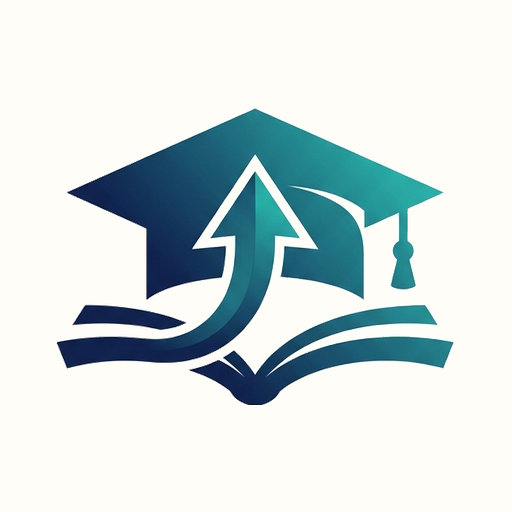
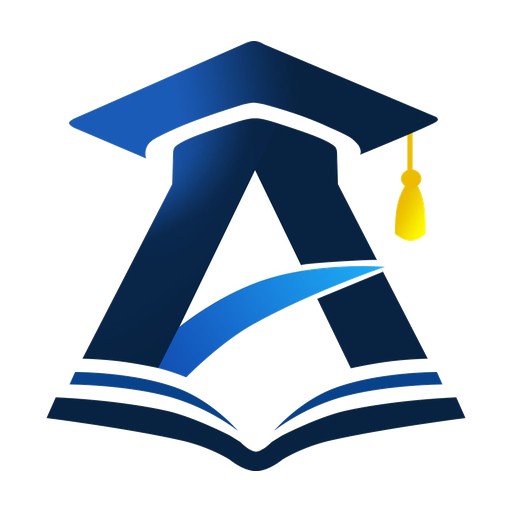
CHANGED

diff --git a/tests/logo-seo.js b/tests/logo-seo.js
@@ -1,0 +1,72 @@
+/* ==========================================================================
+   ACADEX — YENİ LOGO + GOOGLE'DA LOGO TESTLERİ (tests/logo-seo.js), 07.11.2026
+
+   NEDEN VAR: logo değişti (kep + "A" + açık kitap). Eski dosya adları korunarak yenilendi
+   (sayfa kodu değişmeden her yerde yeni logo). Google arama sonucunda logonun görünmesi için:
+     - kökte /favicon.ico ve 48'in katı boyutlarda PNG ikonlar (Google favicon kuralı)
+     - her sayfada aynı ikon etiketleri
+     - ana sayfada Organization (logo) + WebSite (site adı) yapılandırılmış verisi
+     - mutlak adresli paylaşım görseli, canonical, robots.txt ve sitemap.xml
+   Çalıştırma:  node tests/logo-seo.js
+   ========================================================================== */
+'use strict';
+const assert = require('node:assert/strict');
+const fs = require('node:fs');
+const path = require('node:path');
+const { makeRunner } = require('./_ts-extract.js');
+const ROOT = path.join(__dirname, '..');
+const read = (p) => fs.readFileSync(path.join(ROOT, p), 'utf8').replace(/\r\n/g, '\n');
+const { test, summary } = makeRunner();
+const U = 'https://www.acadex.com.tr';
+
+/* PNG başlığından boyut (bağımlılıksız) */
+const pngBoyut = (p) => { const b = fs.readFileSync(path.join(ROOT, p)); assert.equal(b.toString('ascii', 1, 4), 'PNG', p + ' PNG değil'); return [b.readUInt32BE(16), b.readUInt32BE(20)]; };
+
+test('ikon dosyaları var ve Google kuralına uygun (kare, 48 katı)', () => {
+  for (const n of [48, 96, 192]) assert.deepEqual(pngBoyut('assets/icons/favicon-' + n + '.png'), [n, n]);
+  const ico = fs.readFileSync(path.join(ROOT, 'favicon.ico'));
+  assert.equal(ico.readUInt16LE(0), 0); assert.equal(ico.readUInt16LE(2), 1, 'ICO türü');
+  const sayi = ico.readUInt16LE(4); assert.ok(sayi >= 3, 'favicon.ico 16/32/48 içerir');
+  const boy = []; for (let i = 0; i < sayi; i++) boy.push(ico[6 + i * 16] || 256);
+  assert.ok(boy.includes(48), 'ICO içinde 48 px');
+  for (const [p, n] of [['assets/logo.png', 1024], ['assets/logo-icon-only.png', 512], ['assets/landing/acadex-logo.png', 256], ['assets/pwa/icon-192.png', 192], ['assets/pwa/icon-512.png', 512], ['assets/pwa/maskable-512.png', 512], ['assets/pwa/apple-touch-icon.png', 180], ['assets/pwa/badge-96.png', 96]]) assert.deepEqual(pngBoyut(p), [n, n], p);
+  assert.deepEqual(pngBoyut('assets/og-acadex.png'), [1200, 630]);
+  for (const f of ['assets/landing/acadex-logo.webp', 'assets/landing/acadex-logo.avif']) assert.ok(fs.statSync(path.join(ROOT, f)).size > 1000, f);
+});
+
+test('her sayfada aynı ikon etiketleri, eski tek PNG ikon kalmadı', () => {
+  const sayfalar = fs.readdirSync(ROOT).filter((f) => f.endsWith('.html')).concat(fs.readdirSync(path.join(ROOT, 'ingilizce')).filter((f) => f.endsWith('.html')).map((f) => 'ingilizce/' + f));
+  let n = 0;
+  for (const f of sayfalar) {
+    const h = read(f); if (!/rel="icon"/.test(h)) continue; n++;
+    assert.match(h, /<link rel="icon" href="\/favicon\.ico" sizes="any">/, f);
+    assert.match(h, /<link rel="icon" type="image\/png" sizes="48x48" href="\/assets\/icons\/favicon-48\.png">/, f);
+    assert.match(h, /<link rel="icon" type="image\/png" sizes="192x192" href="\/assets\/icons\/favicon-192\.png">/, f);
+    assert.match(h, /rel="apple-touch-icon"/, f);
+    assert.doesNotMatch(h, /<link rel="icon" type="image\/png" href=/, f + ': eski ikon etiketi');
+  }
+  assert.ok(n >= 18, 'ikonlu sayfa sayısı ' + n);
+});
+
+test('ana sayfa: Google site adı + logo yapılandırılmış verisi ve paylaşım görseli', () => {
+  const h = read('index.html');
+  const j = JSON.parse(h.match(/<script type="application\/ld\+json">([\s\S]*?)<\/script>/)[1]);
+  const org = j['@graph'].find((x) => x['@type'] === 'Organization'), site = j['@graph'].find((x) => x['@type'] === 'WebSite');
+  assert.equal(org.name, 'Acadex'); assert.equal(org.url, U + '/'); assert.equal(org.logo.url, U + '/assets/logo.png'); assert.ok(org.logo.width >= 112);
+  assert.equal(site.name, 'Acadex'); assert.equal(site.url, U + '/');
+  assert.ok(!JSON.stringify(j).includes('@gmail'), 'kişisel e-posta yapılandırılmış veride yok');
+  assert.match(h, new RegExp('<meta property="og:image" content="' + U.replace(/\./g, '\\.') + '/assets/og-acadex\\.png">'));
+  assert.match(h, /<link rel="canonical" href="https:\/\/www\.acadex\.com\.tr\/">/);
+  assert.match(h, /<meta property="og:site_name" content="Acadex">/);
+});
+
+test('robots.txt ve sitemap.xml: ana sayfa taranabilir, yönetim sayfaları kapalı', () => {
+  const r = read('robots.txt'), s = read('sitemap.xml');
+  assert.match(r, /User-agent: \*\nAllow: \//); assert.match(r, /Disallow: \/admin/); assert.match(r, /Sitemap: https:\/\/www\.acadex\.com\.tr\/sitemap\.xml/);
+  assert.doesNotMatch(r, /Disallow: \/assets|Disallow: \/favicon/, 'ikonlar Googlebot\'a açık');
+  assert.match(s, /<loc>https:\/\/www\.acadex\.com\.tr\/<\/loc>/);
+  assert.doesNotMatch(s, /admin|panel|dashboard/);
+  assert.ok(read('manifest.webmanifest').includes('/assets/pwa/maskable-512.png'));
+});
+
+summary();

diff --git a/index.html b/index.html
@@ -5,14 +5,35 @@
 <meta name="viewport" content="width=device-width, initial-scale=1">
 <title>Acadex — Zekice çalış, sınırları aş.</title>
 <meta name="description" content="Ders materyallerini özetlere, çalışma kartlarına ve deneme sınavlarına dönüştüren öğrenci portalı.">
-<link rel="icon" type="image/png" href="assets/logo.png">
+<link rel="icon" href="/favicon.ico" sizes="any">
+<link rel="icon" type="image/png" sizes="48x48" href="/assets/icons/favicon-48.png">
+<link rel="icon" type="image/png" sizes="96x96" href="/assets/icons/favicon-96.png">
+<link rel="icon" type="image/png" sizes="192x192" href="/assets/icons/favicon-192.png">
 <link rel="manifest" href="/manifest.webmanifest">
 <link rel="apple-touch-icon" href="/assets/pwa/apple-touch-icon.png">
 <meta name="apple-mobile-web-app-capable" content="yes">
 <meta name="apple-mobile-web-app-title" content="Acadex">
 <meta property="og:title" content="Acadex — Zekice çalış, sınırları aş.">
 <meta property="og:description" content="Ders materyallerini özetlere, çalışma kartlarına ve deneme sınavlarına dönüştüren öğrenci portalı.">
-<meta property="og:image" content="assets/logo.png">
+<meta property="og:image" content="https://www.acadex.com.tr/assets/og-acadex.png">
+<meta property="og:image:width" content="1200">
+<meta property="og:image:height" content="630">
+<meta property="og:image:alt" content="Acadex logosu">
+<meta property="og:url" content="https://www.acadex.com.tr/">
+<meta property="og:site_name" content="Acadex">
+<meta property="og:locale" content="tr_TR">
+<meta name="twitter:card" content="summary_large_image">
+<meta name="twitter:image" content="https://www.acadex.com.tr/assets/og-acadex.png">
+<link rel="canonical" href="https://www.acadex.com.tr/">
+<meta name="application-name" content="Acadex">
+<meta name="theme-color" content="#0D1838">
+<!-- 07.11.2026 · Google: site adı ve logo (yapılandırılmış veri). Logo 112 px üstü, kare, taranabilir. -->
+<script type="application/ld+json">
+{"@context":"https://schema.org","@graph":[
+ {"@type":"Organization","@id":"https://www.acadex.com.tr/#org","name":"Acadex","url":"https://www.acadex.com.tr/","logo":{"@type":"ImageObject","url":"https://www.acadex.com.tr/assets/logo.png","width":1024,"height":1024}},
+ {"@type":"WebSite","@id":"https://www.acadex.com.tr/#site","name":"Acadex","alternateName":["acadex.com.tr","Acadex Akademik Öğrenme Platformu"],"url":"https://www.acadex.com.tr/","inLanguage":"tr-TR","publisher":{"@id":"https://www.acadex.com.tr/#org"}}
+]}
+</script>
 <meta property="og:type" content="website">
 <style>
 /* self-hosted fonts (no third-party requests) */

diff --git a/login.html b/login.html
@@ -6,7 +6,11 @@
 <title>Giriş yap · Acadex</title>
 <meta name="description" content="Acadex hesabına giriş yap: notların, kartların ve denemelerin seni bekliyor.">
 <meta name="theme-color" content="#0D1838">
-<link rel="icon" type="image/png" href="assets/logo-icon-only.png">
+<link rel="icon" href="/favicon.ico" sizes="any">
+<link rel="icon" type="image/png" sizes="48x48" href="/assets/icons/favicon-48.png">
+<link rel="icon" type="image/png" sizes="96x96" href="/assets/icons/favicon-96.png">
+<link rel="icon" type="image/png" sizes="192x192" href="/assets/icons/favicon-192.png">
+<link rel="apple-touch-icon" href="/assets/pwa/apple-touch-icon.png">
 <link rel="preload" href="assets/landing/fonts/caveat-latin.woff2" as="font" type="font/woff2" crossorigin>
 <style>
 @font-face{font-family:'Bricolage Grotesque';font-style:normal;font-display:swap;font-weight:200 800;src:url(assets/landing/fonts/bricolage-latin-ext.woff2) format('woff2-variations');unicode-range:U+0100-02BA,U+02BD-02C5,U+02C7-02CC,U+02CE-02D7,U+02DD-02FF,U+0304,U+0308,U+0329,U+1D00-1DBF,U+1E00-1E9F,U+1EF2-1EFF,U+2020,U+20A0-20AB,U+20AD-20C0,U+2113,U+2C60-2C7F,U+A720-A7FF}

diff --git a/register.html b/register.html
@@ -6,7 +6,11 @@
 <title>Kayıt ol · Acadex</title>
 <meta name="description" content="Acadex öğrenci hesabını oluştur: pilot program açık, kayıt ücretsiz.">
 <meta name="theme-color" content="#0D1838">
-<link rel="icon" type="image/png" href="assets/logo-icon-only.png">
+<link rel="icon" href="/favicon.ico" sizes="any">
+<link rel="icon" type="image/png" sizes="48x48" href="/assets/icons/favicon-48.png">
+<link rel="icon" type="image/png" sizes="96x96" href="/assets/icons/favicon-96.png">
+<link rel="icon" type="image/png" sizes="192x192" href="/assets/icons/favicon-192.png">
+<link rel="apple-touch-icon" href="/assets/pwa/apple-touch-icon.png">
 <link rel="preload" href="assets/landing/fonts/caveat-latin.woff2" as="font" type="font/woff2" crossorigin>
 <style>
 @font-face{font-family:'Bricolage Grotesque';font-style:normal;font-display:swap;font-weight:200 800;src:url(assets/landing/fonts/bricolage-latin-ext.woff2) format('woff2-variations');unicode-range:U+0100-02BA,U+02BD-02C5,U+02C7-02CC,U+02CE-02D7,U+02DD-02FF,U+0304,U+0308,U+0329,U+1D00-1DBF,U+1E00-1E9F,U+1EF2-1EFF,U+2020,U+20A0-20AB,U+20AD-20C0,U+2113,U+2C60-2C7F,U+A720-A7FF}

diff --git a/reset-password.html b/reset-password.html
@@ -6,7 +6,11 @@
 <title>Şifre yenile · Acadex</title>
 <meta name="description" content="Acadex şifreni güvenle yenile.">
 <meta name="theme-color" content="#0D1838">
-<link rel="icon" type="image/png" href="assets/logo-icon-only.png">
+<link rel="icon" href="/favicon.ico" sizes="any">
+<link rel="icon" type="image/png" sizes="48x48" href="/assets/icons/favicon-48.png">
+<link rel="icon" type="image/png" sizes="96x96" href="/assets/icons/favicon-96.png">
+<link rel="icon" type="image/png" sizes="192x192" href="/assets/icons/favicon-192.png">
+<link rel="apple-touch-icon" href="/assets/pwa/apple-touch-icon.png">
 <link rel="preload" href="assets/landing/fonts/caveat-latin.woff2" as="font" type="font/woff2" crossorigin>
 <style>
 @font-face{font-family:'Bricolage Grotesque';font-style:normal;font-display:swap;font-weight:200 800;src:url(assets/landing/fonts/bricolage-latin-ext.woff2) format('woff2-variations');unicode-range:U+0100-02BA,U+02BD-02C5,U+02C7-02CC,U+02CE-02D7,U+02DD-02FF,U+0304,U+0308,U+0329,U+1D00-1DBF,U+1E00-1E9F,U+1EF2-1EFF,U+2020,U+20A0-20AB,U+20AD-20C0,U+2113,U+2C60-2C7F,U+A720-A7FF}

diff --git a/ingilizce/index.html b/ingilizce/index.html
@@ -7,7 +7,11 @@
 <script>/* kapı: son 30 dk içinde doğrulandıysa açık başla (assets/kapi.js yine denetler) */try{if(Date.now()-(+sessionStorage.getItem('acx.kapi')||0)<18e5)document.documentElement.classList.remove('kapi')}catch(e){}</script>
 <title>Acadex English</title>
 <meta name="description" content="Kahvaltıda kelime, otobüste dinleme, kütüphanede okuma, kafede konuşma, akşam bir paragraf. Üniversite öğrencisinin gününe dağılmış İngilizce.">
-<link rel="icon" type="image/png" href="../assets/landing/acadex-logo.png">
+<link rel="icon" href="/favicon.ico" sizes="any">
+<link rel="icon" type="image/png" sizes="48x48" href="/assets/icons/favicon-48.png">
+<link rel="icon" type="image/png" sizes="96x96" href="/assets/icons/favicon-96.png">
+<link rel="icon" type="image/png" sizes="192x192" href="/assets/icons/favicon-192.png">
+<link rel="apple-touch-icon" href="/assets/pwa/apple-touch-icon.png">
 <link rel="stylesheet" href="assets/ing.css">
 <style>
 body{--c:var(--mavi)}

diff --git a/ingilizce/reading.html b/ingilizce/reading.html
@@ -7,7 +7,11 @@
 <script>/* kapı: son 30 dk içinde doğrulandıysa açık başla (assets/kapi.js yine denetler) */try{if(Date.now()-(+sessionStorage.getItem('acx.kapi')||0)<18e5)document.documentElement.classList.remove('kapi')}catch(e){}</script>
 <title>Reading · Acadex English</title>
 <meta name="description" content="Akademik metni baştan sona çevirmeden okumak: göz gezdir, ana fikri işaretle, bilmediğin kelime kenarda Türkçesiyle beklesin.">
-<link rel="icon" type="image/png" href="../assets/landing/acadex-logo.png">
+<link rel="icon" href="/favicon.ico" sizes="any">
+<link rel="icon" type="image/png" sizes="48x48" href="/assets/icons/favicon-48.png">
+<link rel="icon" type="image/png" sizes="96x96" href="/assets/icons/favicon-96.png">
+<link rel="icon" type="image/png" sizes="192x192" href="/assets/icons/favicon-192.png">
+<link rel="apple-touch-icon" href="/assets/pwa/apple-touch-icon.png">
 <link rel="stylesheet" href="assets/ing.css">
 <style>
 body{--c:var(--reading)}

diff --git a/ingilizce/listening.html b/ingilizce/listening.html
@@ -7,7 +7,11 @@
 <script>/* kapı: son 30 dk içinde doğrulandıysa açık başla (assets/kapi.js yine denetler) */try{if(Date.now()-(+sessionStorage.getItem('acx.kapi')||0)<18e5)document.documentElement.classList.remove('kapi')}catch(e){}</script>
 <title>Listening · Acadex English</title>
 <meta name="description" content="Kampüse giden otobüste bir bölüm dinle. Takıldığın kelimeye dokun, anlamı çıksın; hız senin elinde.">
-<link rel="icon" type="image/png" href="../assets/landing/acadex-logo.png">
+<link rel="icon" href="/favicon.ico" sizes="any">
+<link rel="icon" type="image/png" sizes="48x48" href="/assets/icons/favicon-48.png">
+<link rel="icon" type="image/png" sizes="96x96" href="/assets/icons/favicon-96.png">
+<link rel="icon" type="image/png" sizes="192x192" href="/assets/icons/favicon-192.png">
+<link rel="apple-touch-icon" href="/assets/pwa/apple-touch-icon.png">
 <link rel="stylesheet" href="assets/ing.css">
 <style>
 body{--c:var(--listening)}

diff --git a/ingilizce/writing.html b/ingilizce/writing.html
@@ -7,7 +7,11 @@
 <script>/* kapı: son 30 dk içinde doğrulandıysa açık başla (assets/kapi.js yine denetler) */try{if(Date.now()-(+sessionStorage.getItem('acx.kapi')||0)<18e5)document.documentElement.classList.remove('kapi')}catch(e){}</script>
 <title>Writing · Acadex English</title>
 <meta name="description" content="Essay'indeki her kırmızı işaretin yanında kısa bir açıklama: ne yanlış, neden yanlış, nasıl düzelir.">
-<link rel="icon" type="image/png" href="../assets/landing/acadex-logo.png">
+<link rel="icon" href="/favicon.ico" sizes="any">
+<link rel="icon" type="image/png" sizes="48x48" href="/assets/icons/favicon-48.png">
+<link rel="icon" type="image/png" sizes="96x96" href="/assets/icons/favicon-96.png">
+<link rel="icon" type="image/png" sizes="192x192" href="/assets/icons/favicon-192.png">
+<link rel="apple-touch-icon" href="/assets/pwa/apple-touch-icon.png">
 <link rel="stylesheet" href="assets/ing.css">
 <style>
 body{--c:var(--writing)}

diff --git a/ingilizce/speaking.html b/ingilizce/speaking.html
@@ -7,7 +7,11 @@
 <script>/* kapı: son 30 dk içinde doğrulandıysa açık başla (assets/kapi.js yine denetler) */try{if(Date.now()-(+sessionStorage.getItem('acx.kapi')||0)<18e5)document.documentElement.classList.remove('kapi')}catch(e){}</script>
 <title>Speaking · Acadex English</title>
 <meta name="description" content="Bir dakika hazırlan, iki dakika konuş, kendi sesini dinle. Vurgu, doğal geçişler ve gölge okuma.">
-<link rel="icon" type="image/png" href="../assets/landing/acadex-logo.png">
+<link rel="icon" href="/favicon.ico" sizes="any">
+<link rel="icon" type="image/png" sizes="48x48" href="/assets/icons/favicon-48.png">
+<link rel="icon" type="image/png" sizes="96x96" href="/assets/icons/favicon-96.png">
+<link rel="icon" type="image/png" sizes="192x192" href="/assets/icons/favicon-192.png">
+<link rel="apple-touch-icon" href="/assets/pwa/apple-touch-icon.png">
 <link rel="stylesheet" href="assets/ing.css">
 <style>
 body{--c:var(--speaking)}

diff --git a/ingilizce/vocab.html b/ingilizce/vocab.html
@@ -7,7 +7,11 @@
 <script>/* kapı: son 30 dk içinde doğrulandıysa açık başla (assets/kapi.js yine denetler) */try{if(Date.now()-(+sessionStorage.getItem('acx.kapi')||0)<18e5)document.documentElement.classList.remove('kapi')}catch(e){}</script>
 <title>Vocab · Acadex English</title>
 <meta name="description" content="Kahvaltıda on kelime. Unutmak üzereyken karşına yeniden çıkan bir deste, kalıplar ve kelime aileleri.">
-<link rel="icon" type="image/png" href="../assets/landing/acadex-logo.png">
+<link rel="icon" href="/favicon.ico" sizes="any">
+<link rel="icon" type="image/png" sizes="48x48" href="/assets/icons/favicon-48.png">
+<link rel="icon" type="image/png" sizes="96x96" href="/assets/icons/favicon-96.png">
+<link rel="icon" type="image/png" sizes="192x192" href="/assets/icons/favicon-192.png">
+<link rel="apple-touch-icon" href="/assets/pwa/apple-touch-icon.png">
 <link rel="stylesheet" href="assets/ing.css">
 <style>
 body{--c:#B07F00}

diff --git a/odeme.html b/odeme.html
@@ -7,7 +7,11 @@
 <meta name="description" content="Acadex Lite ve Premium paketleri: güvenli ödeme iyzico ile.">
 <meta name="theme-color" content="#0D1838">
 <meta name="robots" content="noindex">
-<link rel="icon" type="image/png" href="assets/logo-icon-only.png">
+<link rel="icon" href="/favicon.ico" sizes="any">
+<link rel="icon" type="image/png" sizes="48x48" href="/assets/icons/favicon-48.png">
+<link rel="icon" type="image/png" sizes="96x96" href="/assets/icons/favicon-96.png">
+<link rel="icon" type="image/png" sizes="192x192" href="/assets/icons/favicon-192.png">
+<link rel="apple-touch-icon" href="/assets/pwa/apple-touch-icon.png">
 <!-- ÖDEME SAYFASI (28.10.2026, test raporu R91). Fiyatlar plan_prices tablosundan
      okunur; ödeme iyzico'nun kendi sayfasında alınır (kart bilgisi bu siteye hiç
      gelmez). Sunucu tarafı: supabase/functions/odeme. Dil: TR / EN (raporun notu). -->
